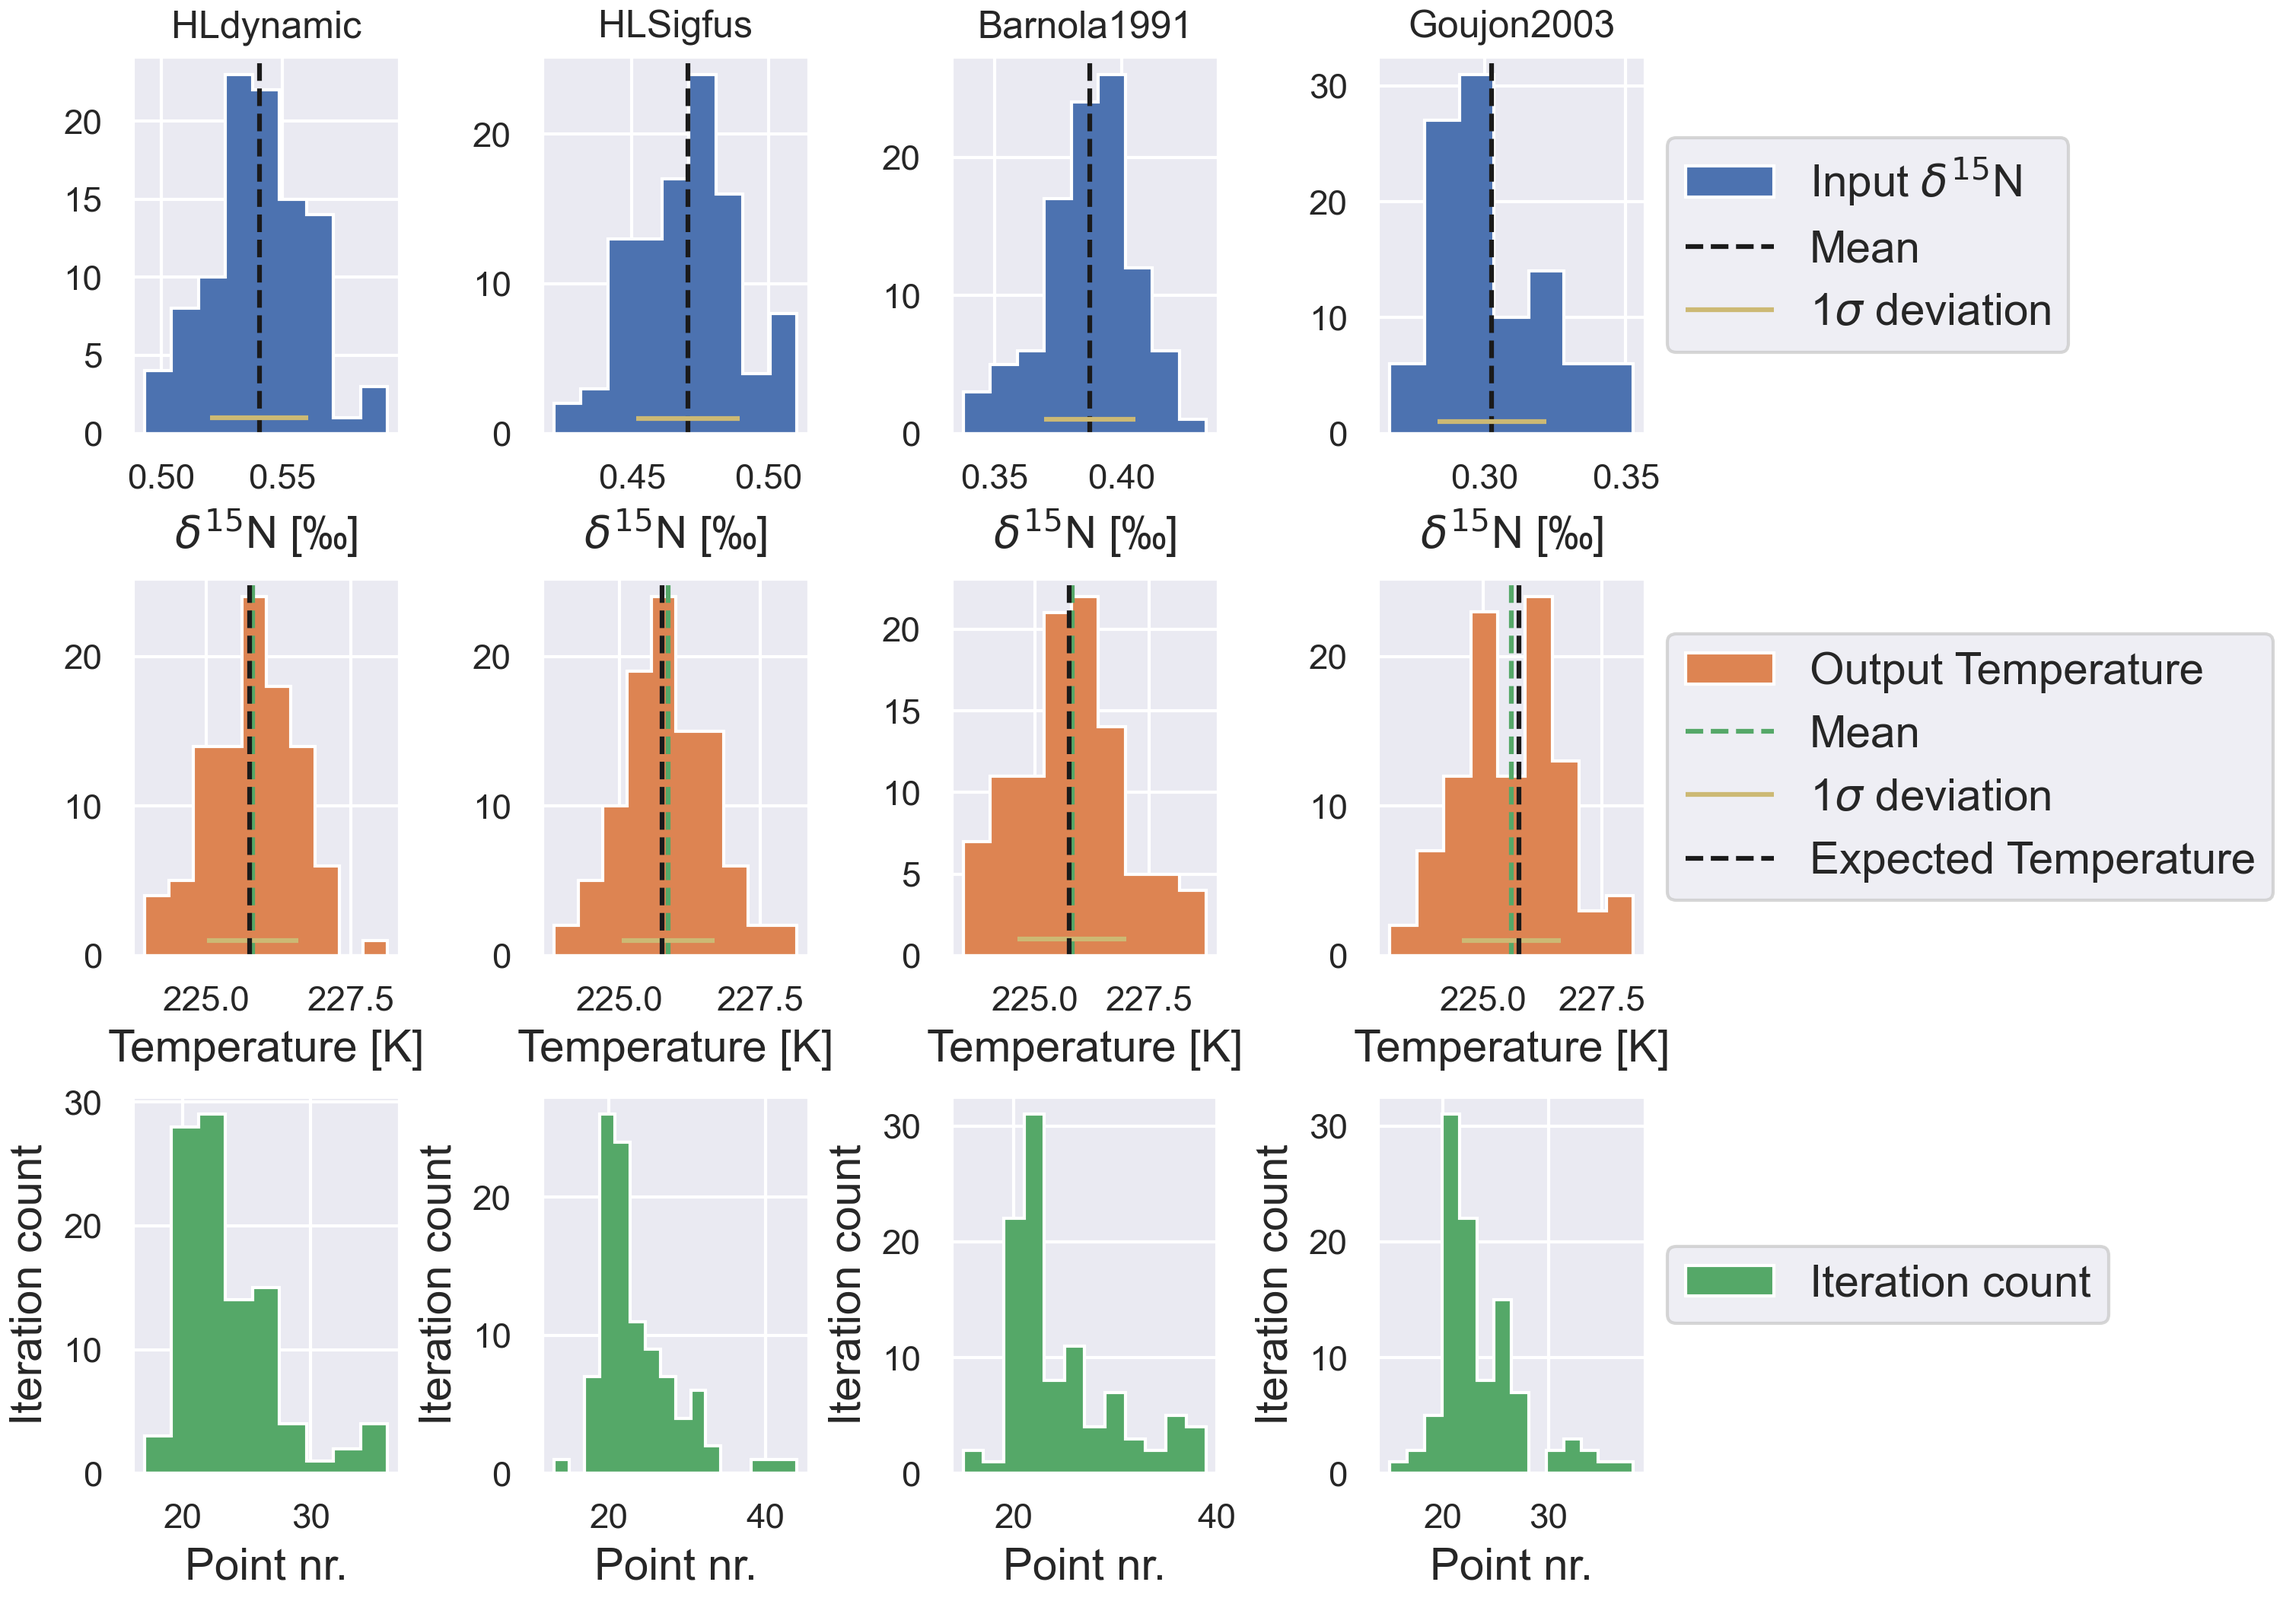
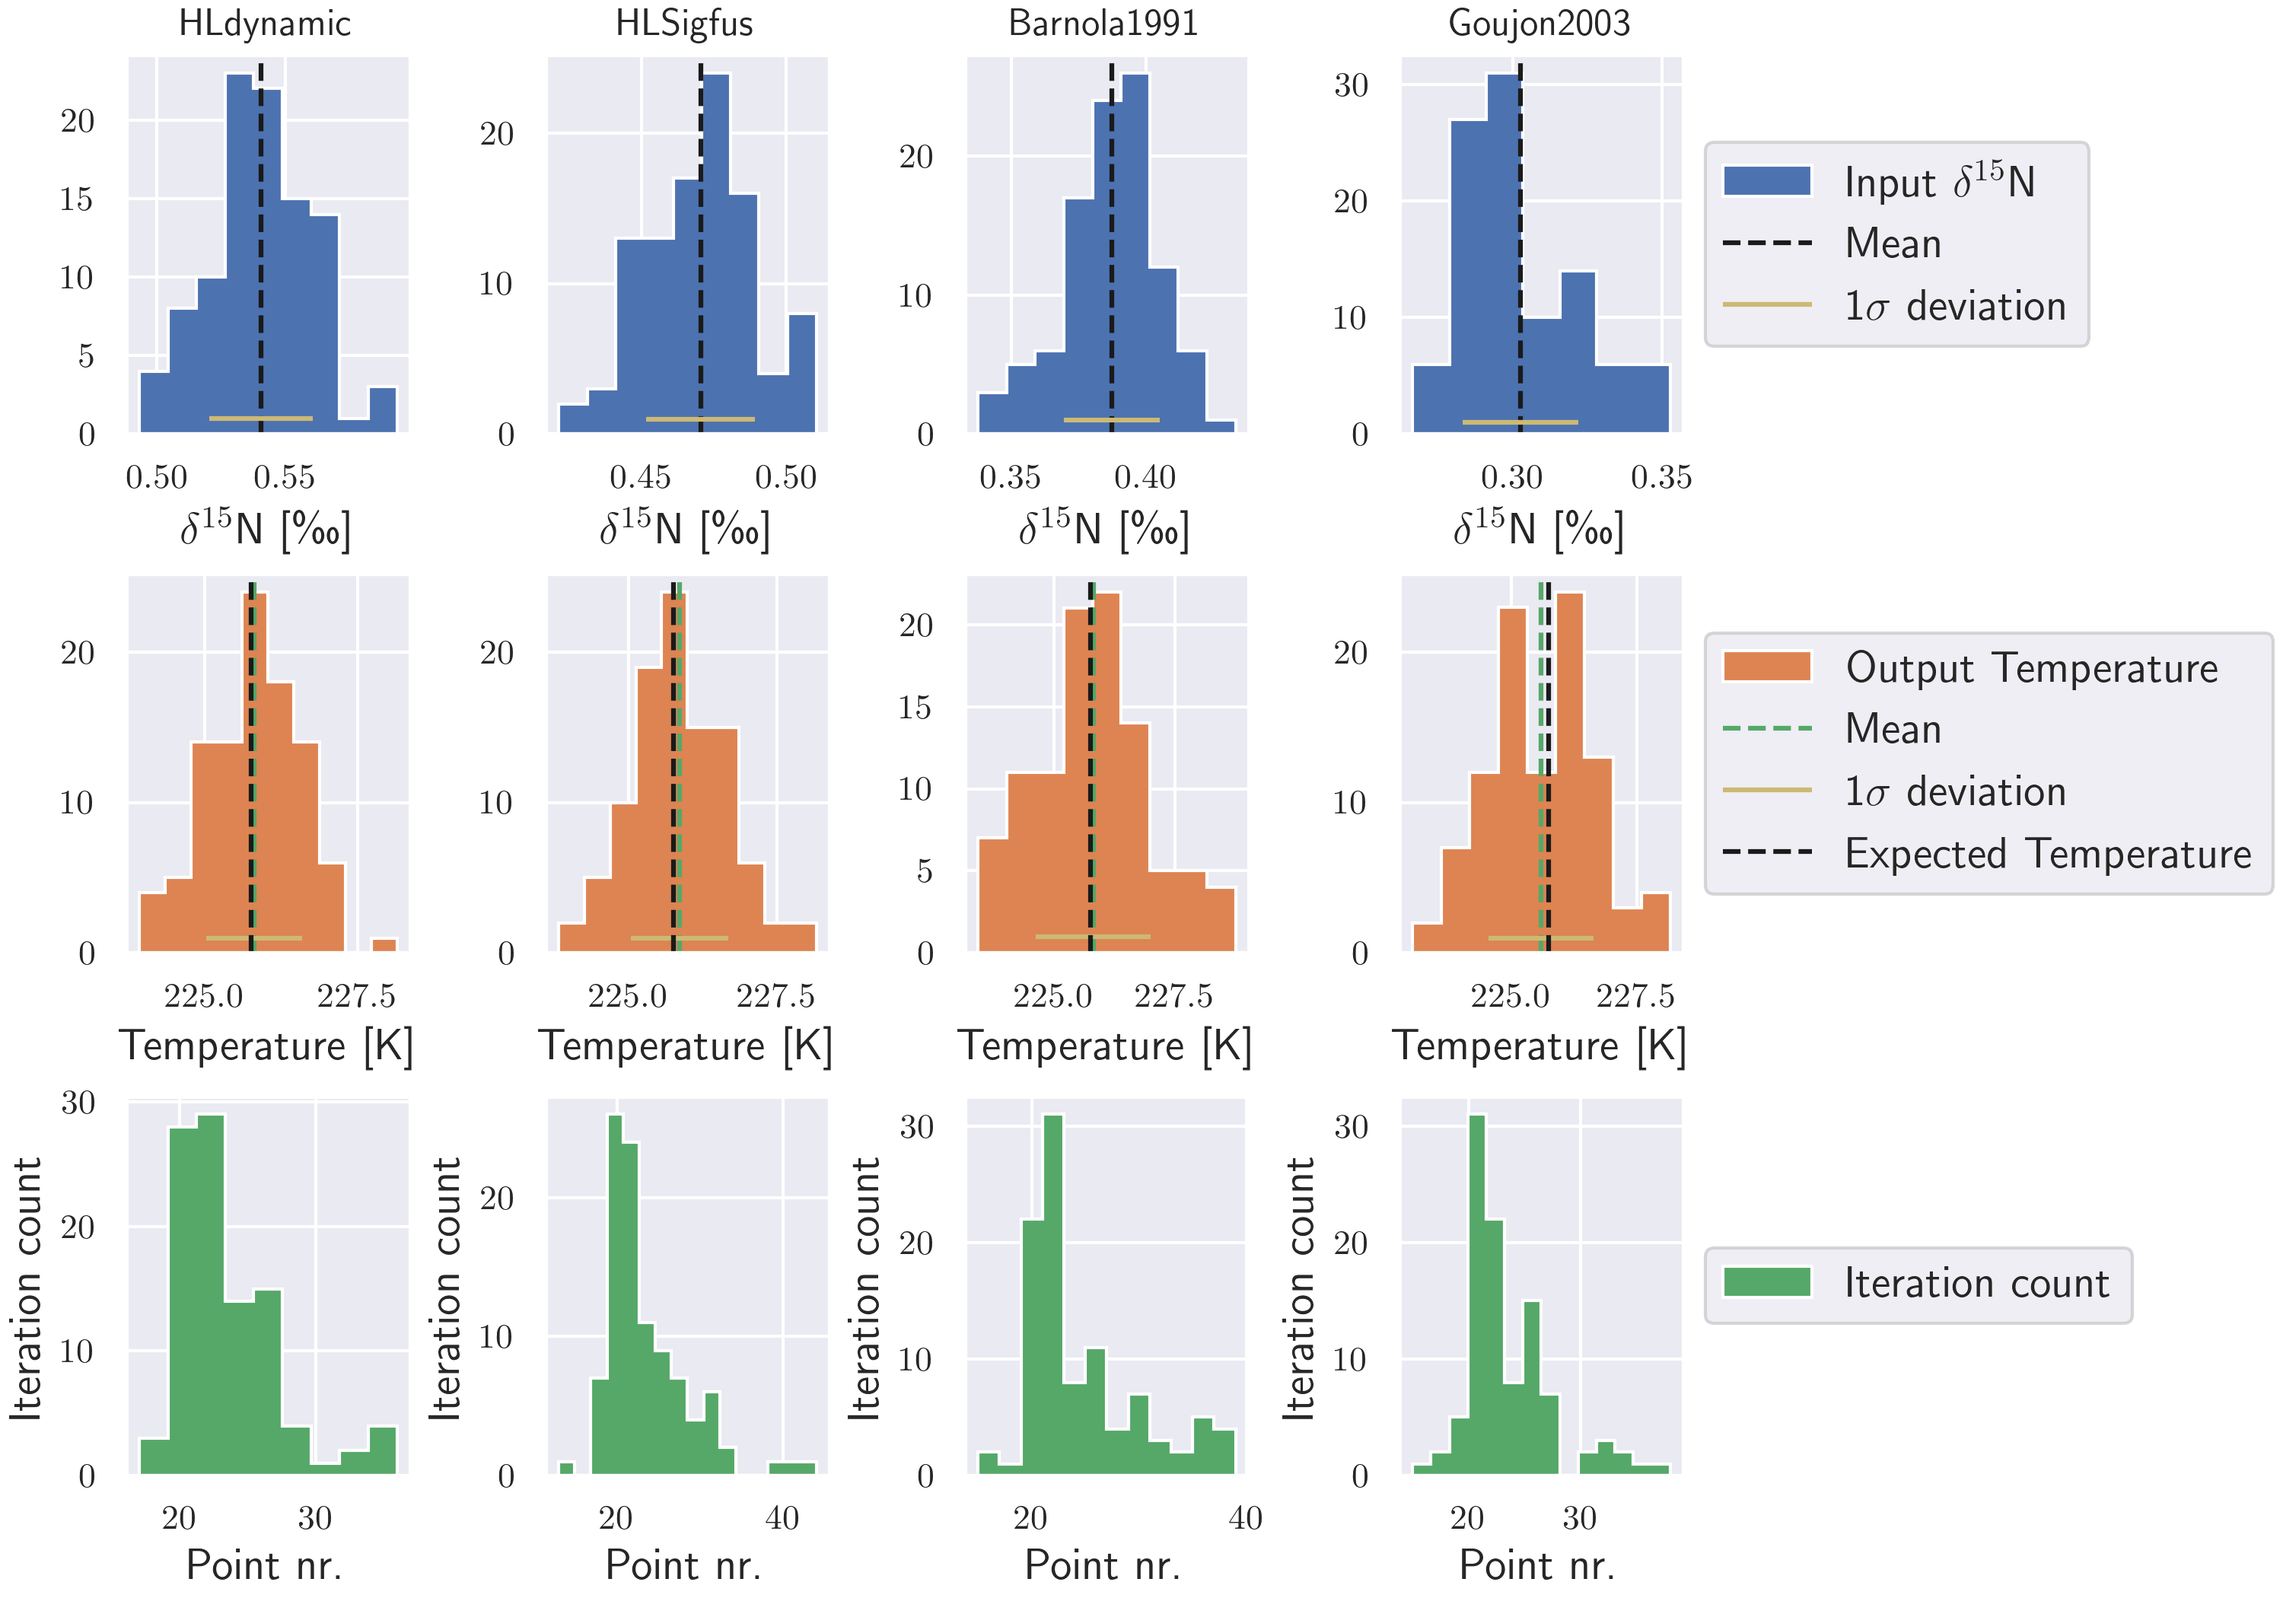
Test

diff --git a/Python/Optimization/Kindler_plot.py b/Python/Optimization/Kindler_plot.py
@@ -8,7 +8,7 @@ import h5py as h5
 import os
 from matplotlib import pyplot as plt
 import numpy as np
-cmap = plt.cm.get_cmap('viridis')
+cmap = plt.cm.get_cmap('Dark2')
 import seaborn as sns 
 #plt.rc('text', usetex=True)
 #plt.rc('font', family='serif')
@@ -171,23 +171,25 @@ for (index, column) in enumerate(df):
     #ax1.plot(Point_T,Point_N,'ko',lw=3,label='Dist. point' if index == 3 else "")
     #ax1.axvline(Point_T[0],color='r',linestyle='--',label='Point 1' if index == 3 else '')
     #ax1.axvline(Point_T[3],color='r',linestyle=':',label='Point 4' if index == 3 else '')
-    ax1.plot(Temps,TestN[:,index],'o')
-    ax1.plot(Temps,Test[:,index],'v')
+    #ax1.plot(Temps,TestN[:,index],'o')
+    #ax1.plot(Temps,Test[:,index],'v')
     #ax1.plot(Temps,d15N_f,label=str(df2.columns[index]),color=cmap(cmap_intervals[index]))
 ax1.set_ylim(0.2,0.65)
+ax1.tick_params(axis='both', which='major', labelsize=16)
+
 #ax2.set_ylim(ax1.get_ylim())
     #ax2 = ax1.twiny()    
     #plt.ylim((0.2,0.6))
-ax1.set_xlabel('Temperature [K]',fontsize=14)
+ax1.set_xlabel('Temperature [K]',fontsize=18)
 #.set_xlabel(r'Accumulation rate [m yr$^{-1}$]',fontsize=14)
 
 
-box = ax1.get_position()
+#box = ax1.get_position()
             #ax[i,j].set_position([box.x0, box.y0, box.width * 0.8, box.height])
 
 # Put a legend to the right of the current axis
-ax1.legend(loc='center left', bbox_to_anchor=(1, 0.5),fontsize=14)
-ax1.set_ylabel(u'$\delta^{15}$N [\u2030]',fontsize=14)
+ax1.legend(loc='best',fontsize=12)
+ax1.set_ylabel(u'$\delta^{15}$N [\u2030]',fontsize=18)
 plt.savefig('Noise/NoiseTemp22.png',dpi=300)
 
 fig = plt.figure(constrained_layout=True)

diff --git a/Python/Optimization/Dist_plot.py b/Python/Optimization/Dist_plot.py
@@ -90,7 +90,7 @@ for i in range(len(Dist)):
         hist(count, bins=bins, ax=ax[2,j],histtype='stepfilled',color = palette[2],label='Iteration count' if j ==3 else '')
         
         mu = np.mean(Temp)
-        std = np.std(Temp,ddof=1)
+        std = np.std(Temp)
         ax[1,j].axvline(mu,color='g',linestyle="--",label='Mean' if j ==3 else '')
         ax[1,j].hlines(y=1,xmin=mu-std,xmax=mu+std,color='y',linestyle="-",label=r'1$\sigma$ deviation' if j ==3 else '')
         ax[1,j].axvline(Input_temp[j2],color='k',linestyle="--",label='Expected Temperature' if j ==3 else '')
@@ -99,7 +99,7 @@ for i in range(len(Dist)):
         mus[i,odd[j]] = '{0:.1f}'.format(std)
         print(mu,Input_temp[j2])
         mua = np.mean(Data_d15N)
-        stda = np.std(Data_d15N,ddof=1)
+        stda = np.std(Data_d15N)
         ax[0,j].axvline(mua,color='k',linestyle="--",label='Mean' if j ==3 else '')
         ax[0,j].hlines(y=1,xmin=mua-stda,xmax=mua+stda,color='y',linestyle="-",label=r'1$\sigma$ deviation' if j ==3 else '')
         #ax[1,j].axvline(Point_T[i],color='g',linestyle="--")

diff --git a/Python/Optimization/Kindler_fit_ODR.py b/Python/Optimization/Kindler_fit_ODR.py
@@ -90,8 +90,22 @@ def input_file(num,temp=temp_interval,acc=acc_interval):
     output_acc = expfunc(myoutput.beta,output_temp)
     temp -= 273.15
     return output_temp, output_acc, myoutput.beta
+'''
+plt.close('all')
+output_temp,output_acc,beta = input_file(num=25)
 
-
+fig, ax = plt.subplots(constrained_layout=True)
+ax.scatter(temp_interval+273.15, acc_interval, label='Raw data')
+ax.plot(output_temp,output_acc,'ro',label='Forward points')
+ax.plot(output_temp,output_acc,'k',label = r' $\exp( -{0:.2f} + {1:.2f}\cdot T)$'.format(beta[0],beta[1]))
+#ax.set_title(r'Using curve\_fit() to fit an exponential function')
+ax.set_ylabel(r'Accumulation rate [m yr$^{-1}$]',fontsize=18)
+ax.tick_params(axis='both', which='major', labelsize=16)
+#ax.tick_params(axis='both', which='minor', labelsize=8)
+ax.set_xlabel('Temperature [K]',fontsize=18)
+ax.legend(fontsize=12)
+plt.savefig('Noise/TEst2.png',dpi=300)
+'''
 
 
 

diff --git a/Python/Optimization/Stuff.tex b/Python/Optimization/Stuff.tex
@@ -9,8 +9,8 @@
 \midrule
 \multirow[c]{4}{*}{Temp} & Dist1 & 220.28 & 0.6 & 220.19 & 0.6 & 220.28 & 0.9 & 220.25 & 0.9 \\
  & Dist2 & 225.8 & 0.8 & 225.86 & 0.8 & 225.81 & 1.2 & 225.6 & 1.0 \\
- & Dist3 & 234.6 & 1.0 & 234.61 & 1.1 & 234.6 & 1.3 & 234.6 & 1.5 \\
- & Dist4 & 241.26 & 1.3 & 241.22 & 1.2 & 241.2 & 1.6 & 163.12 & 115.1 \\
+ & Dist3 & 234.6 & 1.0 & 234.61 & 1.0 & 234.6 & 1.3 & 234.6 & 1.5 \\
+ & Dist4 & 241.26 & 1.3 & 241.22 & 1.2 & 241.2 & 1.6 & 163.12 & 114.5 \\
 \multirow[c]{4}{*}{Nitrogen} & Dist1 & 0.539 & 0.02 & 0.468 & 0.02 & 0.382 & 0.02 & 0.305 & 0.02 \\
  & Dist2 & 0.541 & 0.02 & 0.47 & 0.02 & 0.387 & 0.02 & 0.303 & 0.02 \\
  & Dist3 & 0.542 & 0.02 & 0.47 & 0.02 & 0.382 & 0.02 & 0.303 & 0.02 \\

diff --git a/Python/Optimization/Kindler_csv.py b/Python/Optimization/Kindler_csv.py
@@ -64,7 +64,7 @@ def Equi_run(Model,temp,acc):
 
 
 
-#Equi_run(Models,Input_temp,Input_acc)
+Equi_run(Models,Input_temp,Input_acc)
 
 
 
